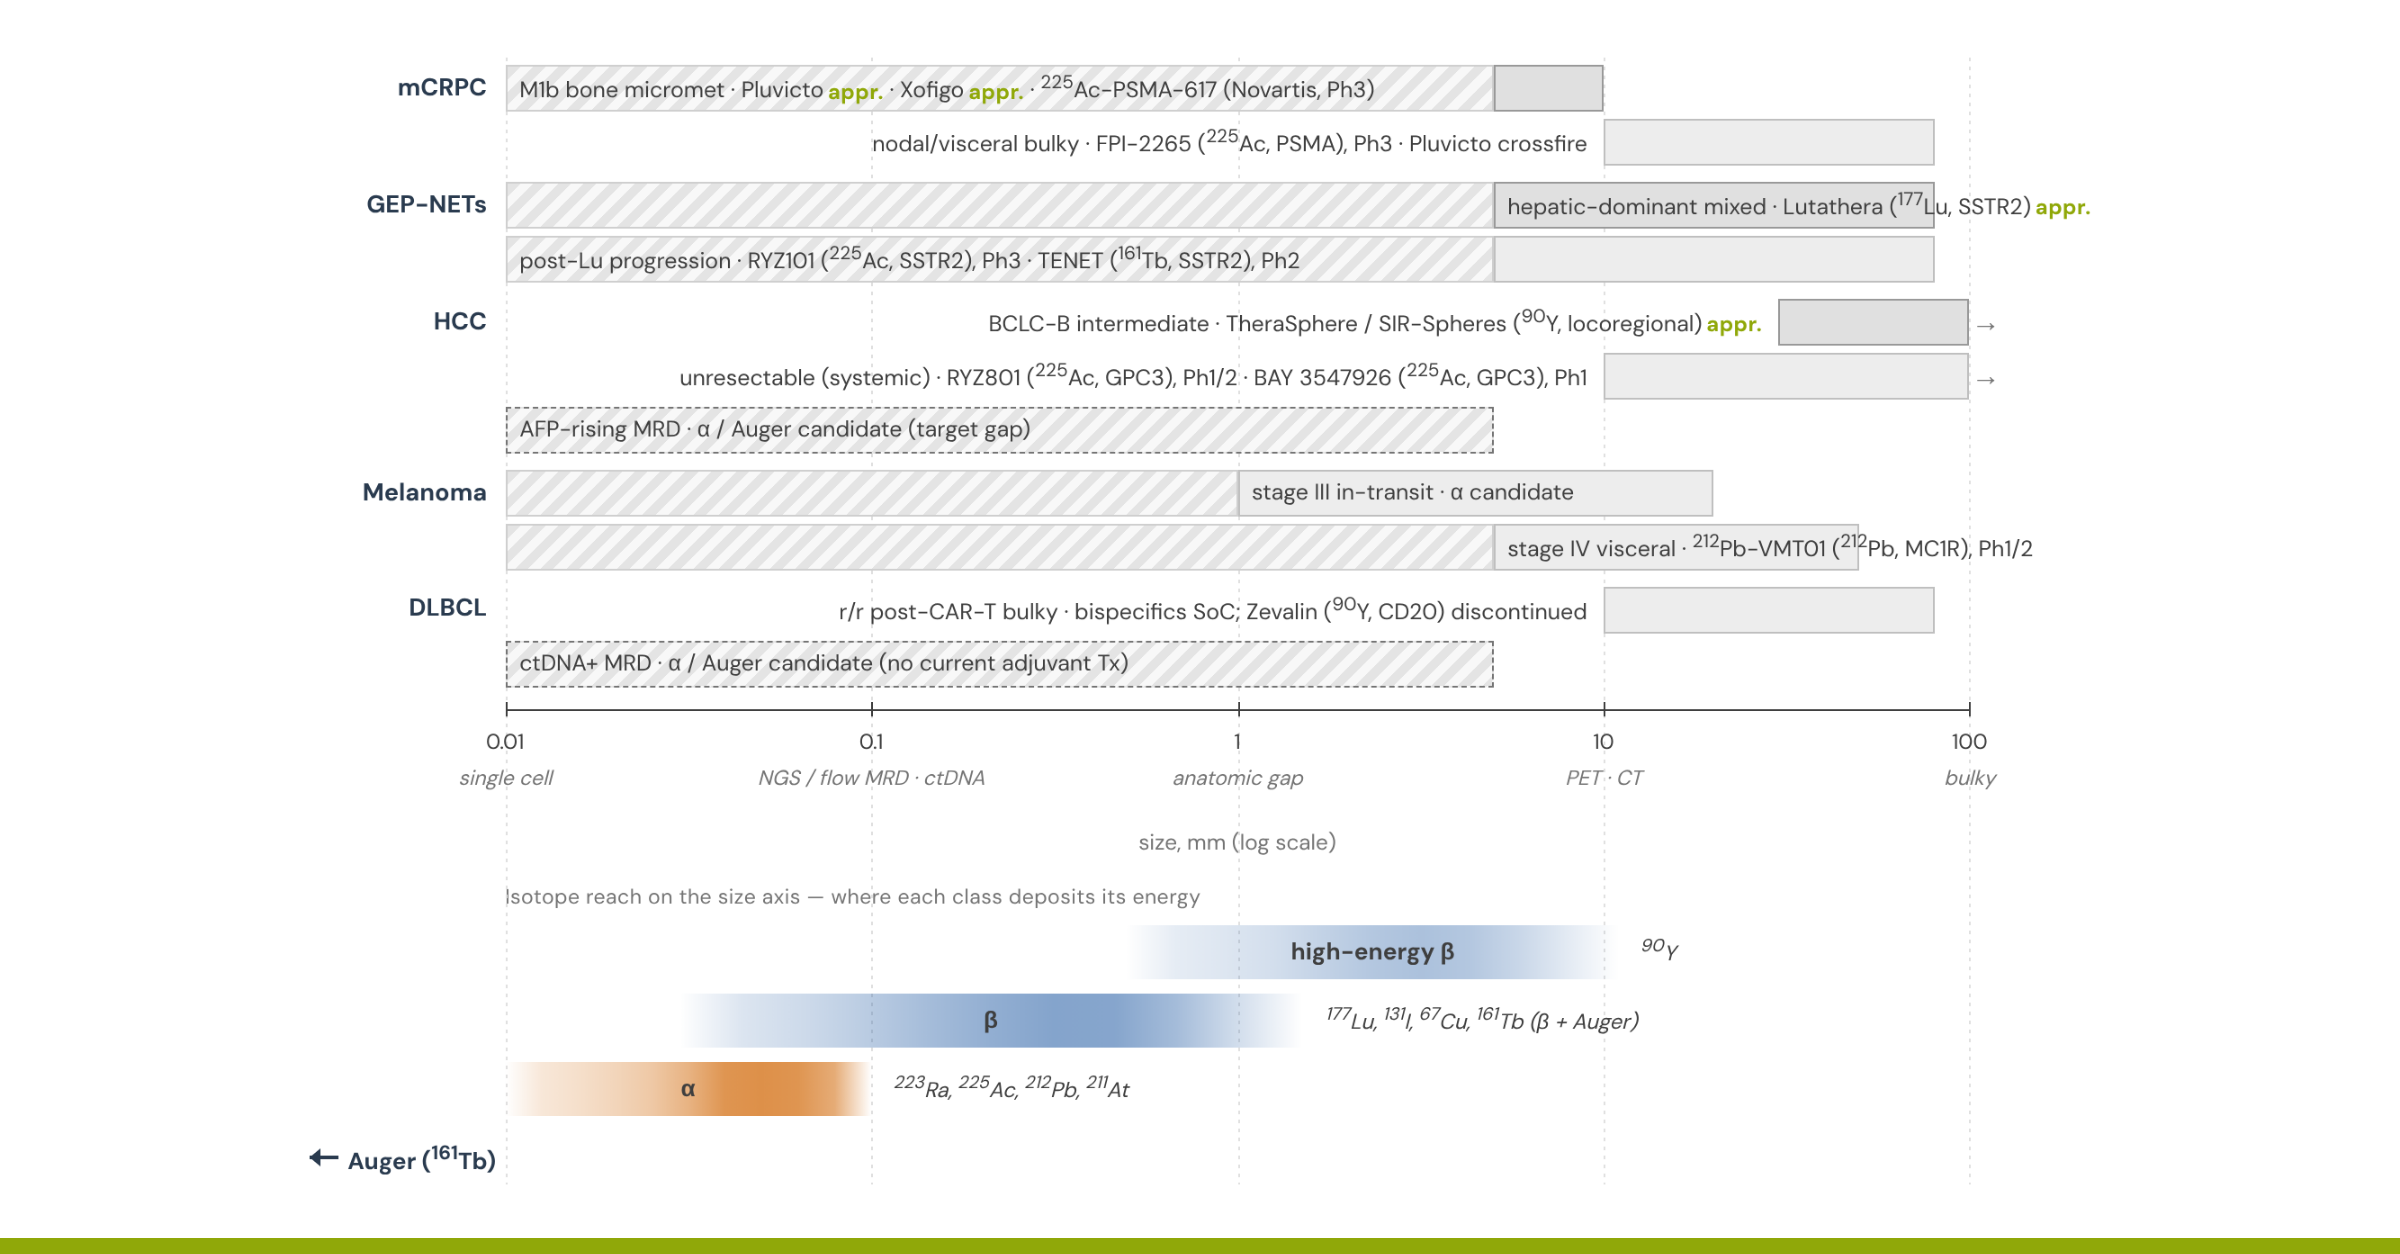
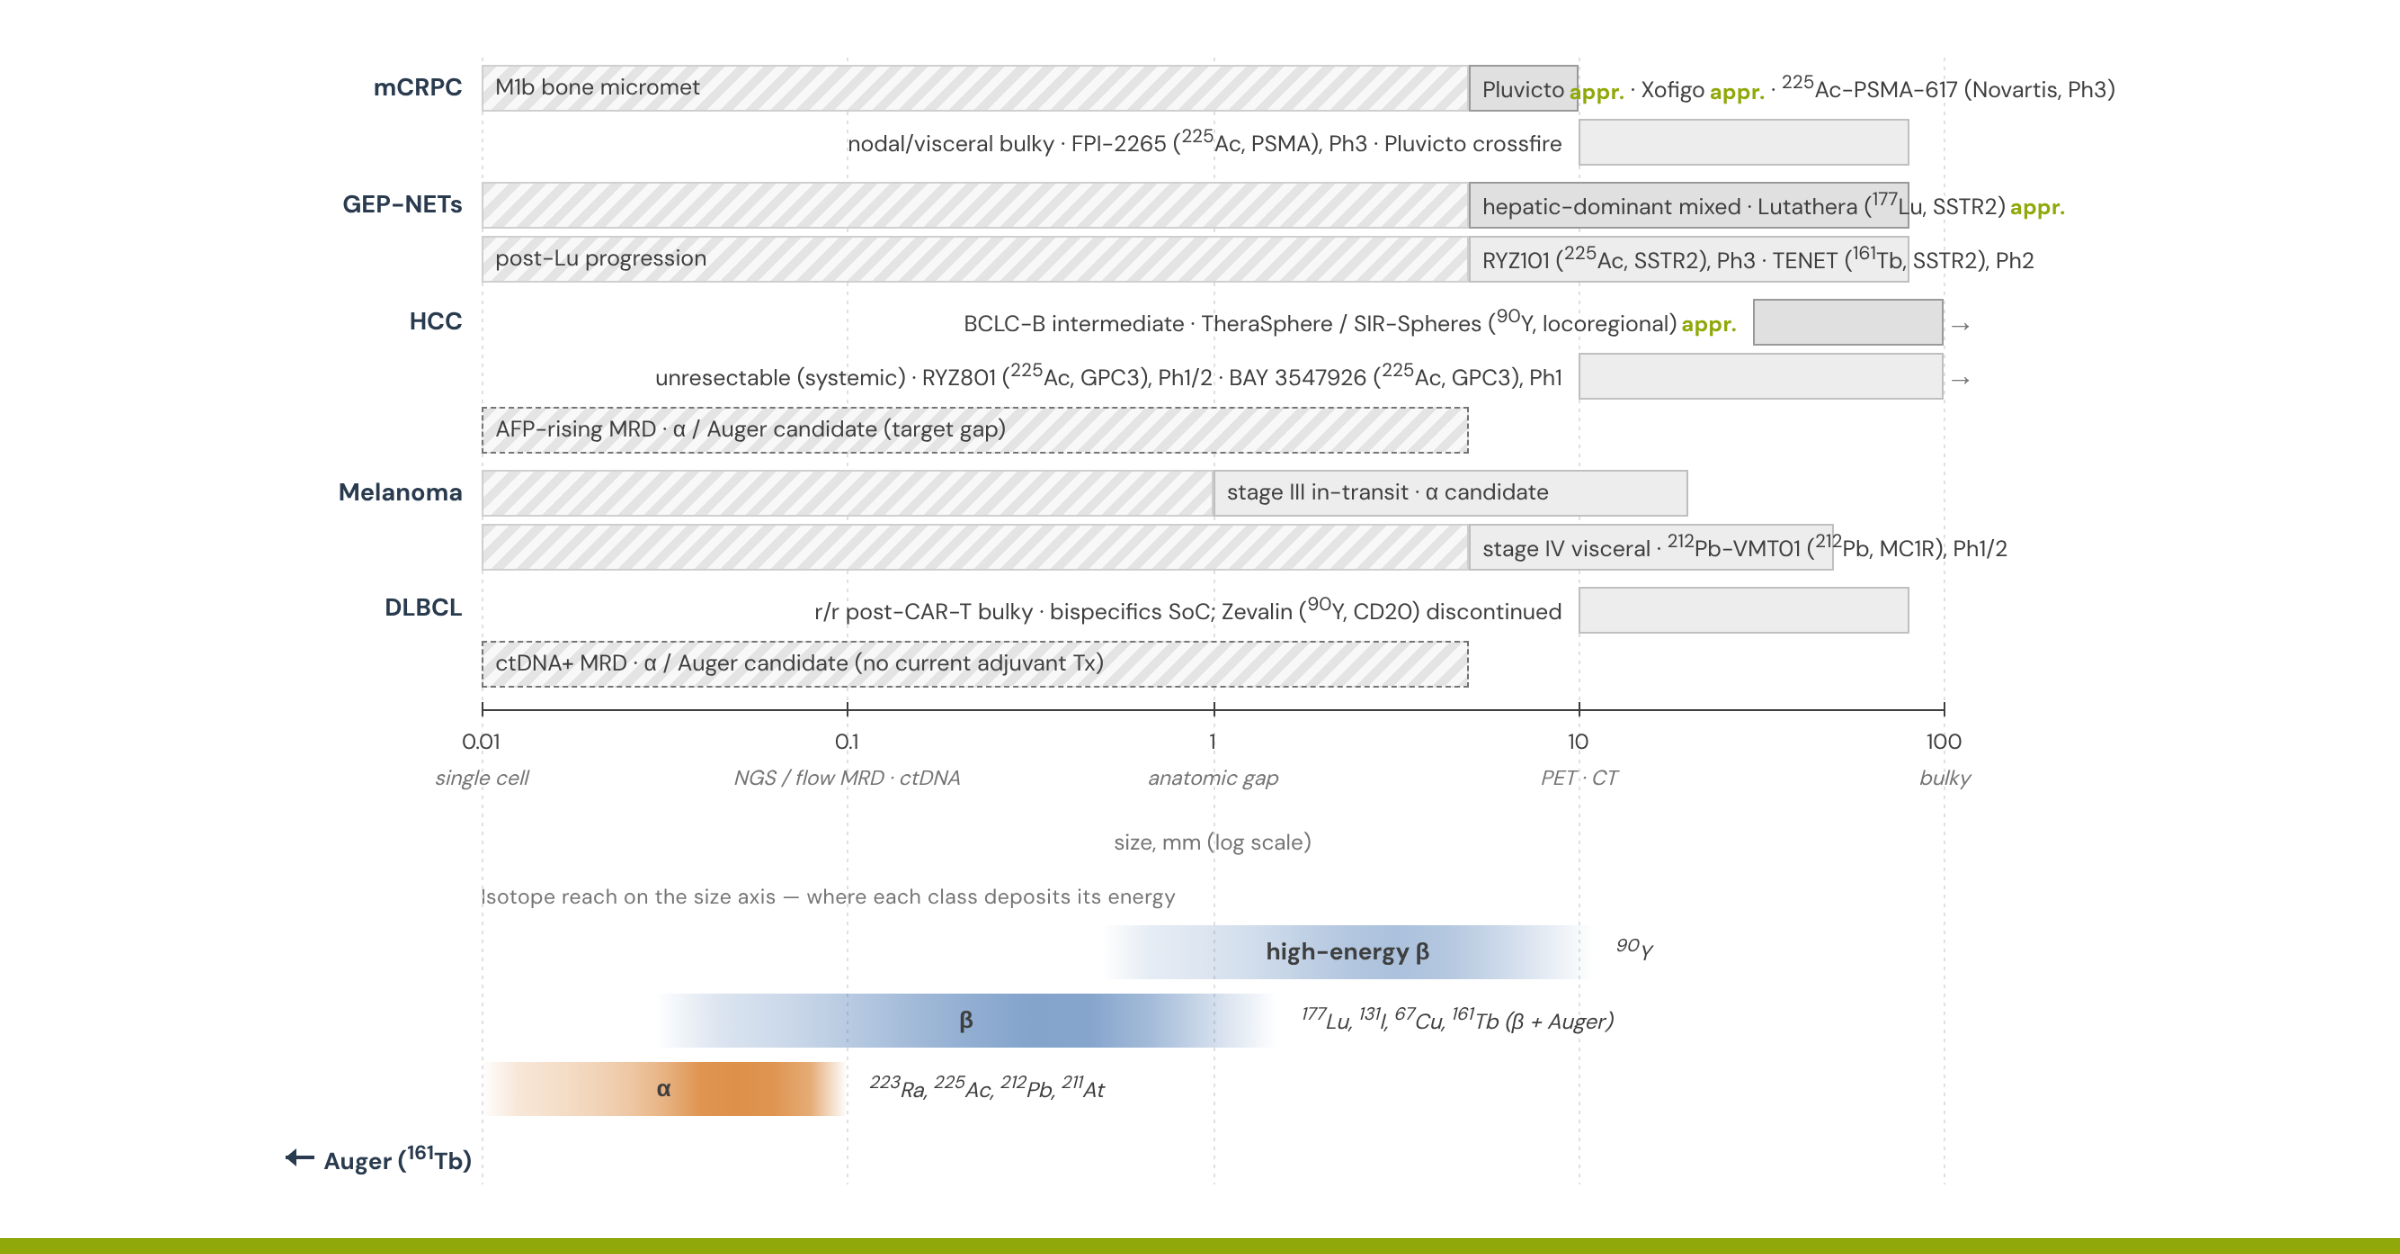
Figure: put asset labels on the visible segments
mCRPC M1b and GEP-NETs post-Lu progression showed approved and
pipeline assets over the hatched (below-detection) segment. The
archetype name stays on the hatched segment; the assets now start at
the visible segment (5 mm), where they fit within the figure width.
Phone layout unchanged (row labels join as before). preview.png
regenerated.

Claude-Session: https://claude.ai/code/session_01Ke6WNG26M6btUZSPgXhJN4

diff --git a/index.html b/index.html
@@ -1160,13 +1160,14 @@ html { -webkit-text-size-adjust: 100%; text-size-adjust: 100%; }
 
 &lt;div class=&quot;bar-row&quot;&gt;
 &lt;div class=&quot;bar fade&quot; data-anchor=&quot;left&quot; style=&quot;left: 0%; width: 67.46%;&quot;&gt;
-&lt;span class=&quot;bar-label&quot;&gt;M1b bone micromet · Pluvicto&lt;span class=&quot;appr&quot;&gt;appr.&lt;/span&gt; · Xofigo&lt;span class=&quot;appr&quot;&gt;appr.&lt;/span&gt; · &lt;sup&gt;225&lt;/sup&gt;Ac-PSMA-617 (Novartis, Ph3)&lt;/span&gt;
+&lt;span class=&quot;bar-label&quot;&gt;M1b bone micromet&lt;/span&gt;
 &lt;div class=&quot;tt&quot;&gt;
 &lt;div class=&quot;tt-title&quot;&gt;mCRPC M1b bone micromet&lt;/div&gt;
 &lt;div class=&quot;tt-row&quot;&gt;&lt;span class=&quot;tt-label&quot;&gt;Lesion range&lt;/span&gt;Single cell to 5 mm (below PSMA-PET resolution)&lt;/div&gt;
 &lt;/div&gt;
 &lt;/div&gt;
 &lt;div class=&quot;bar approved&quot; data-anchor=&quot;left&quot; style=&quot;left: 67.46%; width: 7.54%;&quot;&gt;
+&lt;span class=&quot;bar-label&quot;&gt;Pluvicto&lt;span class=&quot;appr&quot;&gt;appr.&lt;/span&gt; · Xofigo&lt;span class=&quot;appr&quot;&gt;appr.&lt;/span&gt; · &lt;sup&gt;225&lt;/sup&gt;Ac-PSMA-617 (Novartis, Ph3)&lt;/span&gt;
 &lt;div class=&quot;tt&quot;&gt;
 &lt;div class=&quot;tt-title&quot;&gt;mCRPC M1b bone-dominant micrometastatic&lt;/div&gt;
 &lt;div class=&quot;tt-row&quot;&gt;&lt;span class=&quot;tt-label&quot;&gt;Lesion range&lt;/span&gt;5 to 10 mm (PSMA-PET-visible small lesions)&lt;/div&gt;
@@ -1217,13 +1218,14 @@ html { -webkit-text-size-adjust: 100%; text-size-adjust: 100%; }
 
 &lt;div class=&quot;bar-row&quot;&gt;
 &lt;div class=&quot;bar fade&quot; data-anchor=&quot;left&quot; style=&quot;left: 0%; width: 67.46%;&quot;&gt;
-&lt;span class=&quot;bar-label&quot;&gt;post-Lu progression · RYZ101 (&lt;sup&gt;225&lt;/sup&gt;Ac, SSTR2), Ph3 · TENET (&lt;sup&gt;161&lt;/sup&gt;Tb, SSTR2), Ph2&lt;/span&gt;
+&lt;span class=&quot;bar-label&quot;&gt;post-Lu progression&lt;/span&gt;
 &lt;div class=&quot;tt&quot;&gt;
 &lt;div class=&quot;tt-title&quot;&gt;GEP-NETs post-Lu progression&lt;/div&gt;
 &lt;div class=&quot;tt-row&quot;&gt;&lt;span class=&quot;tt-label&quot;&gt;Lesion range&lt;/span&gt;Single cell to 5 mm (below DOTATATE-PET resolution)&lt;/div&gt;
 &lt;/div&gt;
 &lt;/div&gt;
 &lt;div class=&quot;bar&quot; data-anchor=&quot;left&quot; style=&quot;left: 67.46%; width: 30.12%;&quot;&gt;
+&lt;span class=&quot;bar-label&quot;&gt;RYZ101 (&lt;sup&gt;225&lt;/sup&gt;Ac, SSTR2), Ph3 · TENET (&lt;sup&gt;161&lt;/sup&gt;Tb, SSTR2), Ph2&lt;/span&gt;
 &lt;div class=&quot;tt&quot;&gt;
 &lt;div class=&quot;tt-title&quot;&gt;GEP-NETs post-Lu progression&lt;/div&gt;
 &lt;div class=&quot;tt-row&quot;&gt;&lt;span class=&quot;tt-label&quot;&gt;Lesion range&lt;/span&gt;5 to 80 mm (as in hepatic-dominant disease)&lt;/div&gt;
